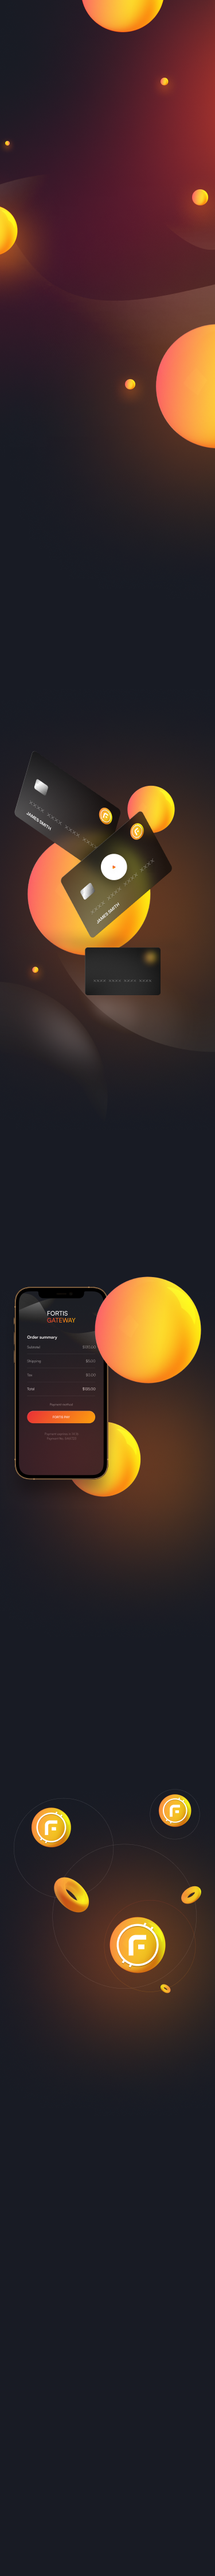
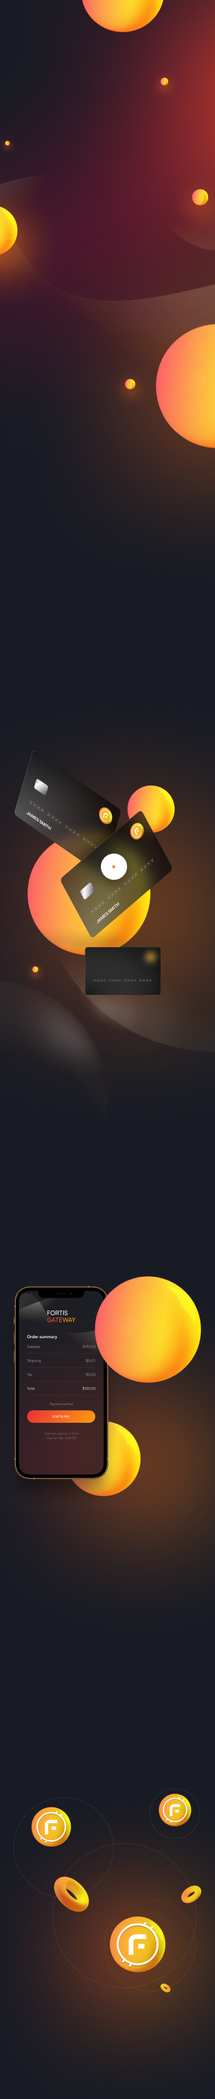
homeSmartphone

diff --git a/src/components/NavBar/index.js b/src/components/NavBar/index.js
@@ -1,7 +1,6 @@
 import styled from "styled-components";
 import {Link as LinkR} from "react-router-dom";
 import {motion} from "framer-motion";
-import TopSphere from "../../images/TopSphere.png";
 import FortisLogo from "../../svg/logo.svg";
 
 const Nav = styled.nav`

diff --git a/src/pages/index.js b/src/pages/index.js
@@ -29,7 +29,7 @@ const Section = styled.div`
 
 const SmartSection = styled.div`
     width: 100vw;
-    height: 4300px;
+    height: 3500px;
     background: url(${SmartBG}), black;
     background-size: contain;
     background-repeat: no-repeat;

diff --git a/src/components/NavBar/SmartNavBar.js b/src/components/NavBar/SmartNavBar.js
@@ -55,7 +55,7 @@ const Fortis = styled.h1`
 
 const DropDown = styled(motion.div)`
     position: absolute;
-    height: 70vh;
+    height: 80vh;
     width: 100%;
     top: 0;
     background: rgba(24, 27, 36, 0.72);
